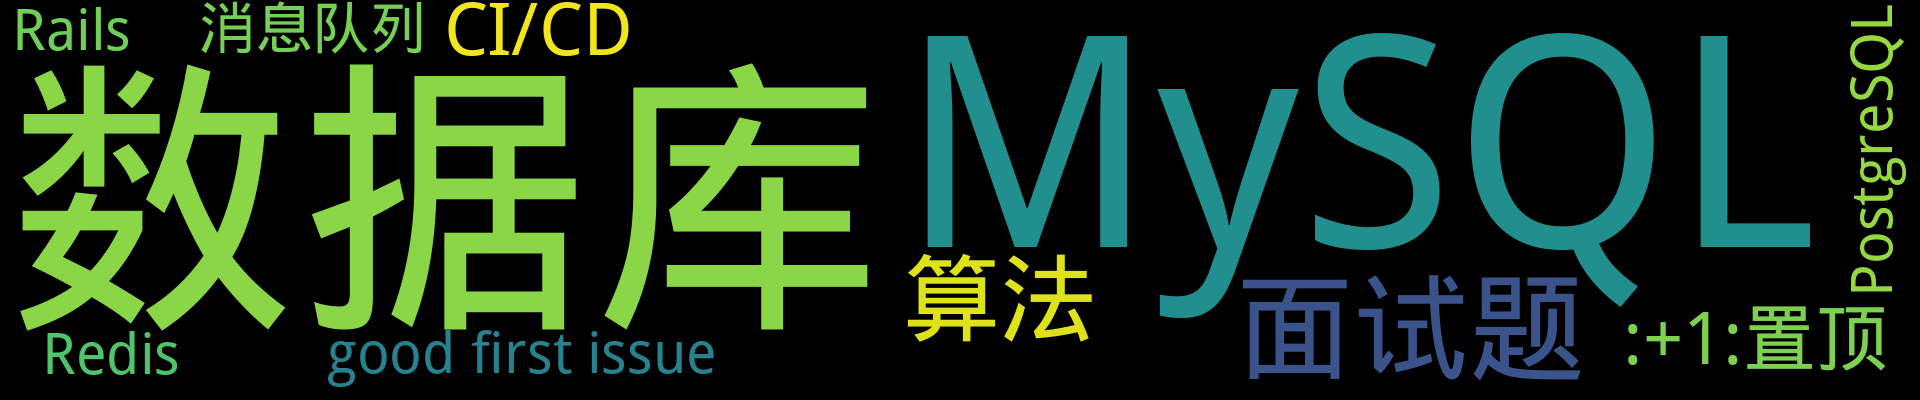
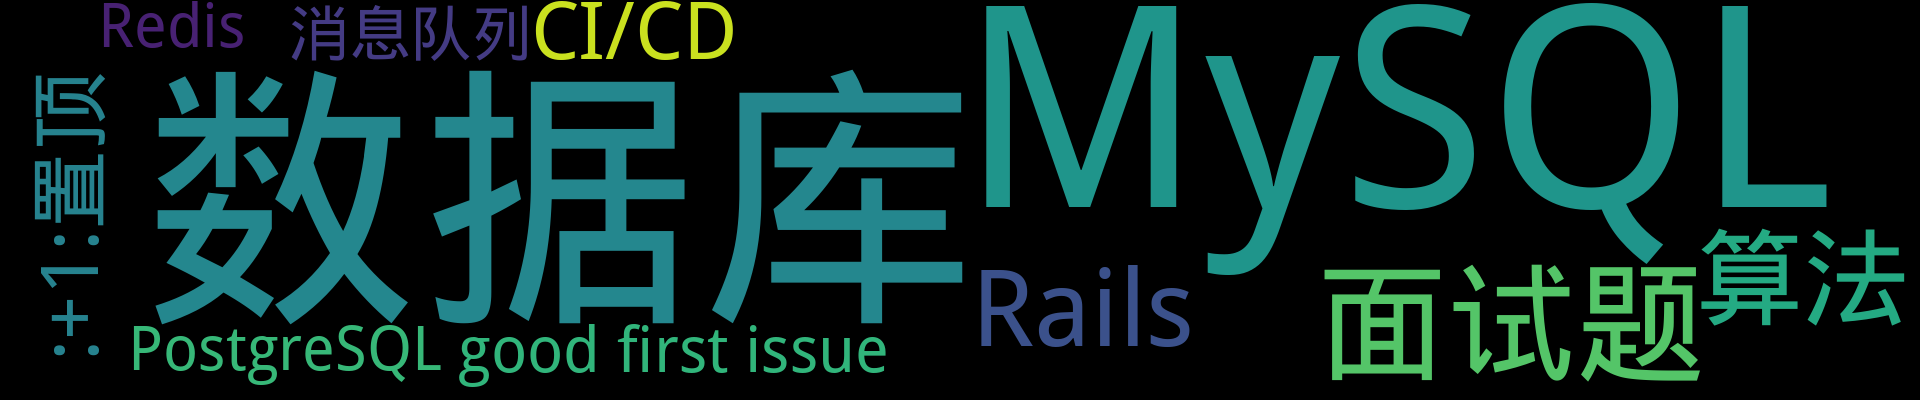
Update from Github Action

diff --git a/README.md b/README.md
@@ -3,7 +3,7 @@
 <p align='center'>
     <img src="https://badgen.net/badge/labels/14"/>
     <img src="https://badgen.net/github/issues/iamtomas/ghiblog"/>
-    <img src="https://badgen.net/badge/last-commit/2022-01-15 08:01:47"/>
+    <img src="https://badgen.net/badge/last-commit/2022-01-18 12:43:34"/>
     <img src="https://badgen.net/github/forks/iamtomas/ghiblog"/>
     <img src="https://badgen.net/github/stars/iamtomas/ghiblog"/>
     <img src="https://badgen.net/github/watchers/iamtomas/ghiblog"/>
@@ -20,6 +20,20 @@
 ## 置顶 :thumbsup: 
 - [基于Github Action自动生成并更新GitHub Issue博客的ReadMe](https://github.com/iamtomas/note/issues/1)  <sup>0 :speech_balloon:</sup>  	 
 ## 最新 :new: 
+
+#### [Sidekiq 浅析](https://github.com/iamtomas/note/issues/19) <sup>0 :speech_balloon:</sup> 	 2022-01-18 12:43:09
+
+:label: : [Rails](https://github.com/iamtomas/ghiblog/labels/Rails)
+
+在 Ruby China 分享的两篇文章：
+
+https://ruby-china.org/topics/41582
+https://ruby-china.org/topics/41588
+
+[更多>>>](https://github.com/iamtomas/note/issues/19)
+
+---
+
 
 #### [一条SQL查询语句是如何执行的？](https://github.com/iamtomas/note/issues/18) <sup>0 :speech_balloon:</sup> 	 2022-01-14 05:55:51
 
@@ -84,21 +98,6 @@ Redis的lpush+brpop命令可实现阻塞队列，比如生产
 ---
 
 
-#### [MySQL零散知识笔记](https://github.com/iamtomas/note/issues/14) <sup>0 :speech_balloon:</sup> 	 2022-01-09 11:23:51
-
-:label: : [MySQL](https://github.com/iamtomas/ghiblog/labels/MySQL), [面试题](https://github.com/iamtomas/ghiblog/labels/%E9%9D%A2%E8%AF%95%E9%A2%98)
-
-## CPU飙升时如何排查与处理（MySQL）
-
-1. top命令排查是否为mysqld占用导致的，否则找出其他占用高的进程进行处理
-2. 若是mysqld导致的，则通过 `SHOW PROCESSLIST; ` 查看正在运行的进程中是否有消耗资源的SQL在运行
-3. 如果存在高消耗的SQL
-
-[更多>>>](https://github.com/iamtomas/note/issues/14)
-
----
-
-
 ## 分类  :card_file_box: 
 
 <details open="open">
@@ -159,8 +158,9 @@ Redis的lpush+brpop命令可实现阻塞队列，比如生产
 </details>
 
 <details>
-<summary>Rails	<sup>1:newspaper:</sup></summary>
+<summary>Rails	<sup>2:newspaper:</sup></summary>
 
+- [Sidekiq 浅析](https://github.com/iamtomas/note/issues/19)  <sup>0 :speech_balloon:</sup>  	 
 - [Rails7 demo](https://github.com/iamtomas/note/issues/11)  <sup>0 :speech_balloon:</sup>  	 
 
 
